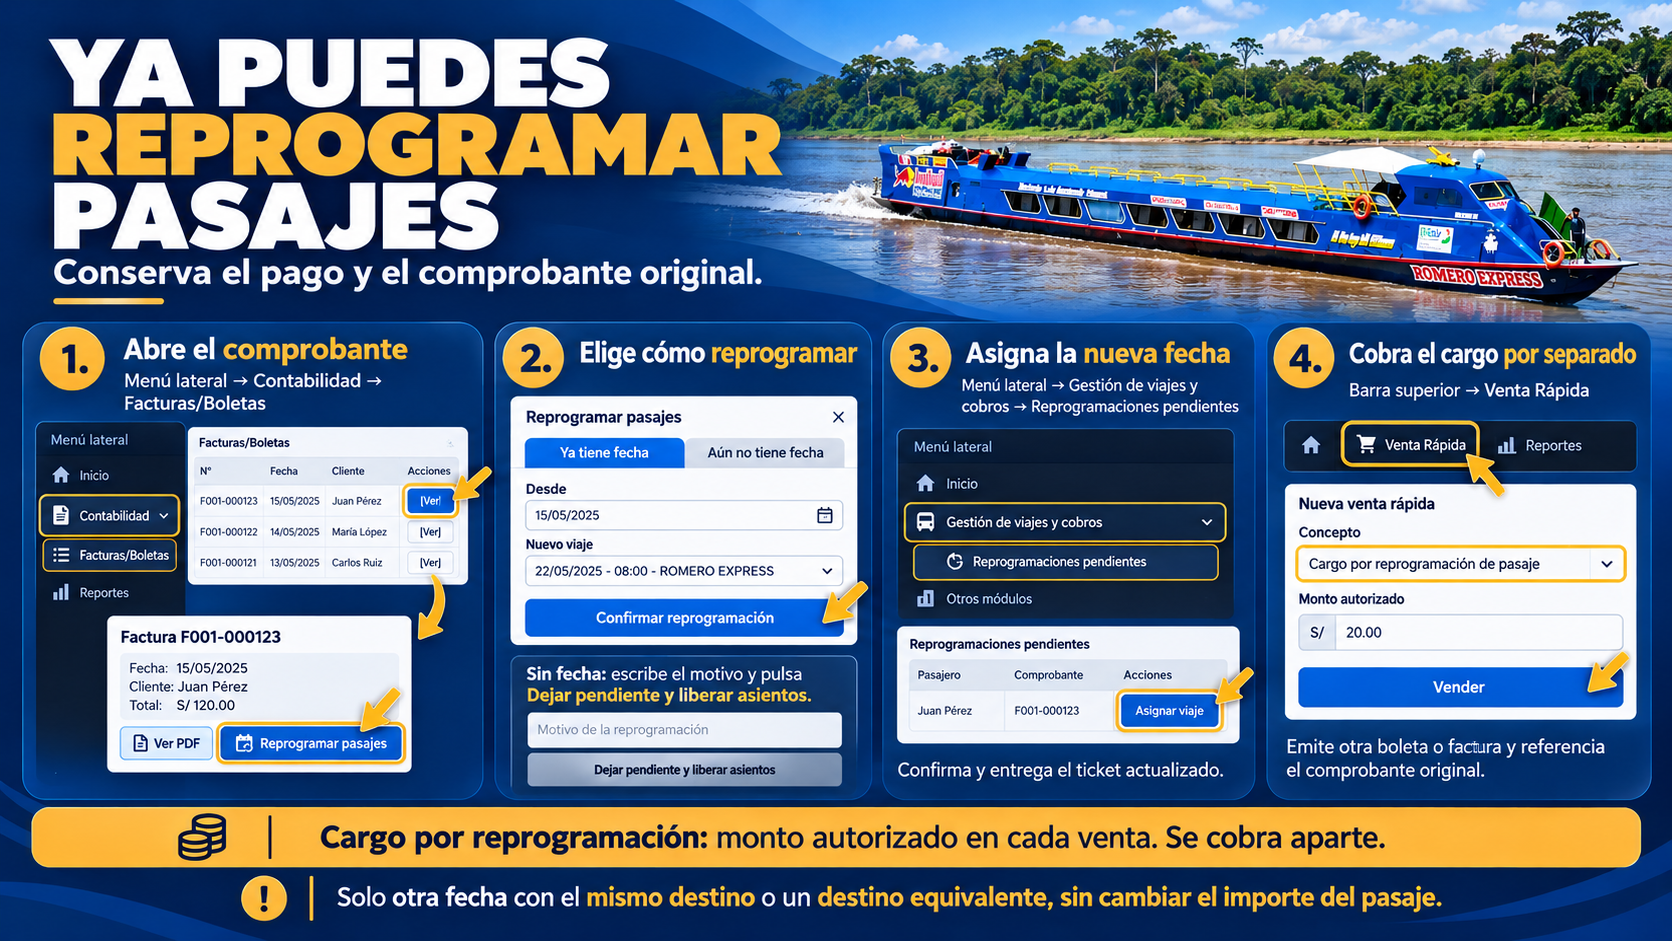
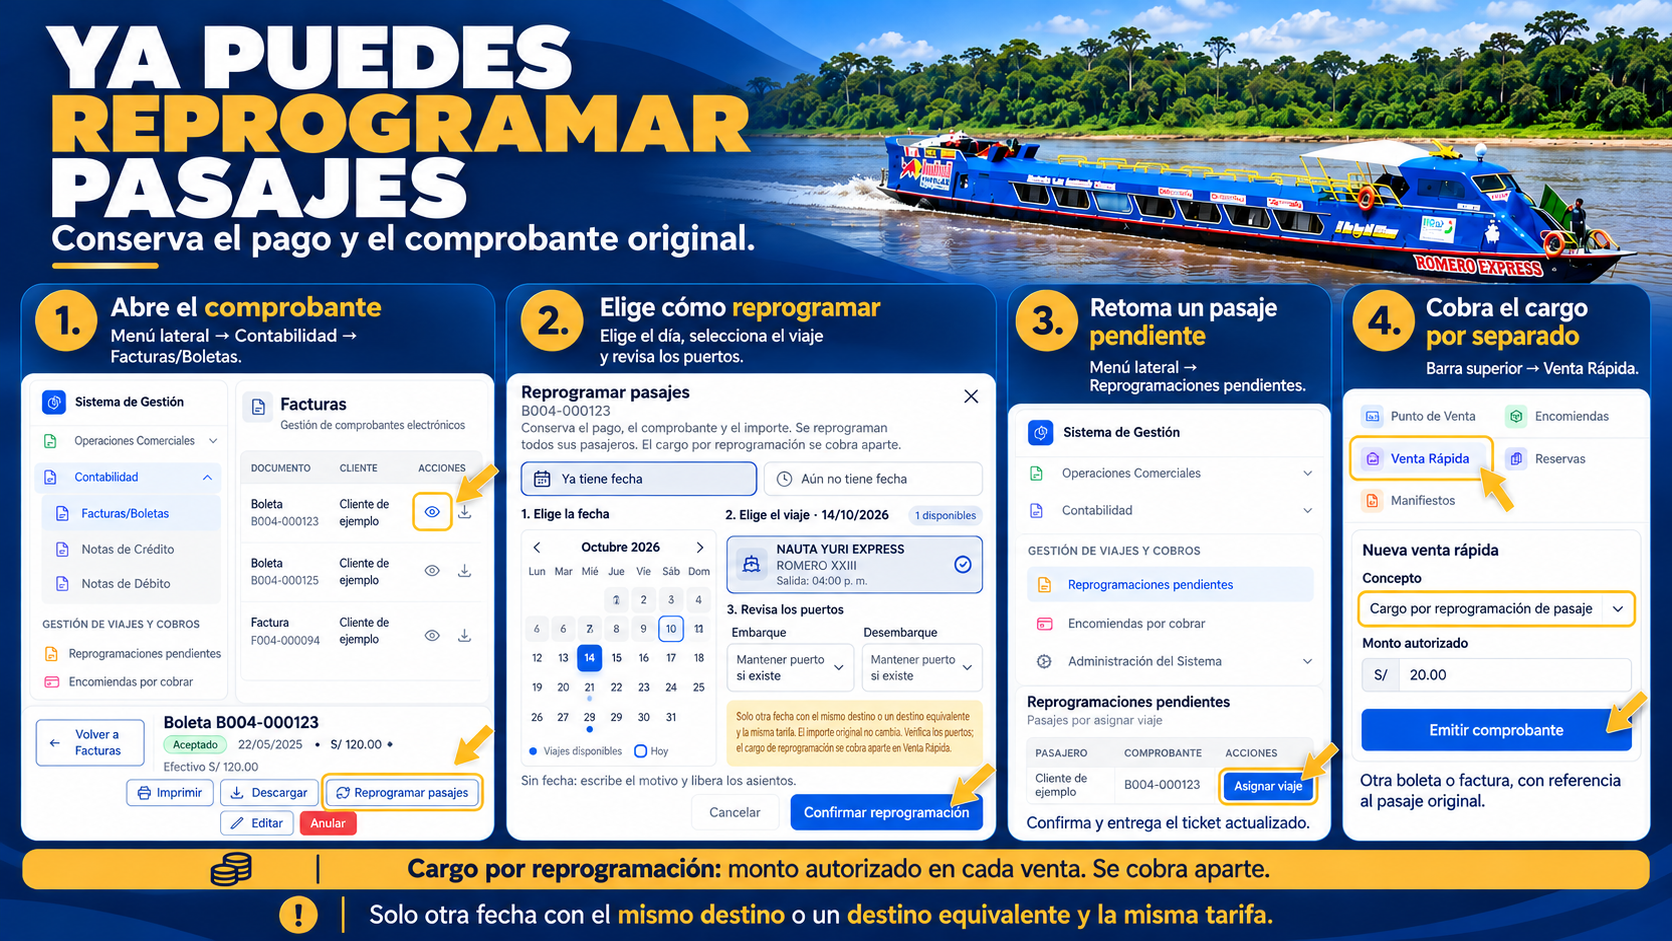
Present illustrated announcements as gallery and reconstruct frontend changelog

diff --git a/src/config/version.ts b/src/config/version.ts
@@ -1,7 +1,7 @@
 // Single source of truth for frontend version and changelog
 // Update this file with each meaningful deploy
 
-export const APP_VERSION = '1.1.0';
+export const APP_VERSION = '1.2.0';
 
 export type ChangelogTag = 'feature' | 'improvement' | 'fix' | 'ui';
 
@@ -14,6 +14,204 @@ export interface ChangelogEntry {
 }
 
 export const CHANGELOG: ChangelogEntry[] = [
+  {
+    "version": "1.2.0",
+    "date": "2026-10-10",
+    "title": "Novedades en una galería de imágenes",
+    "description": "Los anuncios con imagen ocupan casi toda la pantalla y se recorren con flechas. La descripción es opcional; los anuncios de texto y video siguen disponibles.",
+    "tags": [
+      "feature",
+      "ui"
+    ]
+  },
+  {
+    "version": "1.2.0",
+    "date": "2026-10-10",
+    "title": "Reprogramación de pasajes desde la web",
+    "description": "Desde el detalle del comprobante puedes cambiar la fecha del viaje conservando el pago y el importe. El calendario marca fechas con salidas; las tarjetas permiten elegir viaje y revisar los puertos.",
+    "tags": [
+      "feature",
+      "ui"
+    ]
+  },
+  {
+    "version": "1.2.0",
+    "date": "2026-10-10",
+    "title": "Pasajes pendientes de nueva fecha",
+    "description": "Puedes liberar los asientos y retirar pasajeros del manifiesto sin devolver el pago. El acceso Reprogramaciones pendientes permite asignar un viaje cuando confirmen su fecha.",
+    "tags": [
+      "feature"
+    ]
+  },
+  {
+    "version": "1.2.0",
+    "date": "2026-10-10",
+    "title": "Cargo por reprogramación en Venta Rápida",
+    "description": "El cargo se registra con otro comprobante, monto autorizado en cada venta y referencia al pasaje original. El servicio exonerado se mantiene fuera de pasajeros y encomiendas.",
+    "tags": [
+      "feature"
+    ]
+  },
+  {
+    "version": "1.2.0",
+    "date": "2026-09-27",
+    "title": "Reportes por embarcación y período",
+    "description": "Consulta viajes operados, pasajeros, ventas, notas de crédito, recaudación y pendientes por embarcación. Los detalles permiten revisar ocupación, rutas y vendedores.",
+    "tags": [
+      "feature",
+      "improvement"
+    ]
+  },
+  {
+    "version": "1.2.0",
+    "date": "2026-09-26",
+    "title": "Consultas de reportes más eficientes",
+    "description": "Se optimizaron las consultas de reportes por viaje y embarcación, con más detalle para analizar las operaciones y sus ventas.",
+    "tags": [
+      "improvement"
+    ]
+  },
+  {
+    "version": "1.2.0",
+    "date": "2026-09-23",
+    "title": "Sesiones entre aplicaciones",
+    "description": "Se mejoró el manejo de sesiones al usar distintas aplicaciones del sistema.",
+    "tags": [
+      "improvement"
+    ]
+  },
+  {
+    "version": "1.2.0",
+    "date": "2026-09-22",
+    "title": "Asistencia para identificar pagos Yape",
+    "description": "La búsqueda asistida permite localizar pagos por fecha y hora, con mejoras de avisos y actualización en tiempo real.",
+    "tags": [
+      "feature",
+      "improvement"
+    ]
+  },
+  {
+    "version": "1.2.0",
+    "date": "2026-09-19",
+    "title": "Registro de pagos en encomiendas por cobrar",
+    "description": "Se mejoró el formulario de confirmación de pagos y su integración con la búsqueda asistida.",
+    "tags": [
+      "improvement"
+    ]
+  },
+  {
+    "version": "1.2.0",
+    "date": "2026-09-08",
+    "title": "Reservas con notas especiales",
+    "description": "Puedes registrar notas para la reserva y revisarlas al consultar sus detalles y confirmar la venta. La lista de reservas tiene una presentación más clara.",
+    "tags": [
+      "feature",
+      "ui"
+    ]
+  },
+  {
+    "version": "1.2.0",
+    "date": "2026-08-19",
+    "title": "Descripción ampliada en Venta Rápida",
+    "description": "El detalle adicional del servicio permite escribir varias líneas para documentar mejor la venta.",
+    "tags": [
+      "improvement"
+    ]
+  },
+  {
+    "version": "1.2.0",
+    "date": "2026-08-02",
+    "title": "País del pasajero en Punto de Venta",
+    "description": "Se agregó un selector de país en el formulario de pasajeros.",
+    "tags": [
+      "feature"
+    ]
+  },
+  {
+    "version": "1.2.0",
+    "date": "2026-07-17",
+    "title": "Edición de medios de pago",
+    "description": "Desde el detalle del comprobante y la vista previa del ticket puedes revisar y editar los medios de pago. Se mejoró el formato de importes y la actualización del resumen.",
+    "tags": [
+      "feature",
+      "fix"
+    ]
+  },
+  {
+    "version": "1.2.0",
+    "date": "2026-07-16",
+    "title": "Cierre por inactividad ajustado",
+    "description": "Se amplió el límite de inactividad antes del cierre automático de sesión.",
+    "tags": [
+      "improvement"
+    ]
+  },
+  {
+    "version": "1.2.0",
+    "date": "2026-07-12",
+    "title": "Validación de carné de extranjería",
+    "description": "Se corrigió la validación del documento al agregar representantes.",
+    "tags": [
+      "fix"
+    ]
+  },
+  {
+    "version": "1.2.0",
+    "date": "2026-07-06",
+    "title": "Búsqueda de clientes y destinatarios",
+    "description": "Se integró la búsqueda con autocompletado para seleccionar clientes y destinatarios con mayor facilidad.",
+    "tags": [
+      "improvement"
+    ]
+  },
+  {
+    "version": "1.2.0",
+    "date": "2026-06-15",
+    "title": "Inicio de sesión adaptable",
+    "description": "La pantalla de ingreso se adapta mejor a distintos tamaños y al cambio de tema; se incorporó el cierre automático por inactividad.",
+    "tags": [
+      "ui",
+      "improvement"
+    ]
+  },
+  {
+    "version": "1.2.0",
+    "date": "2026-06-11",
+    "title": "Más contexto en gráficos de ventas",
+    "description": "Los gráficos muestran totales de ventas, rutas y vendedores para facilitar la lectura de resultados.",
+    "tags": [
+      "improvement"
+    ]
+  },
+  {
+    "version": "1.2.0",
+    "date": "2026-06-10",
+    "title": "Vista previa de cambio de embarcación",
+    "description": "Al cambiar la embarcación de un viaje puedes revisar previamente la reubicación de pasajeros. También se mejoró la vista de calendario de programación.",
+    "tags": [
+      "feature",
+      "ui"
+    ]
+  },
+  {
+    "version": "1.2.0",
+    "date": "2026-06-09",
+    "title": "Búsqueda en el menú lateral",
+    "description": "El menú incorpora una búsqueda para encontrar secciones y se mejoró la selección de clientes.",
+    "tags": [
+      "improvement"
+    ]
+  },
+  {
+    "version": "1.2.0",
+    "date": "2026-05-28",
+    "title": "Tema oscuro y estados de carga",
+    "description": "Se amplió el soporte del tema oscuro y se mejoró la presentación de errores, carga de tablas y notificaciones.",
+    "tags": [
+      "ui",
+      "improvement"
+    ]
+  },
   {
     version: '1.1.0',
     date: '2026-05-18',

diff --git a/src/features/updates/pages/UpdatesAdminPage.tsx b/src/features/updates/pages/UpdatesAdminPage.tsx
@@ -49,7 +49,7 @@ const FormModal: React.FC<FormModalProps> = ({ isOpen, onClose, editing }) => {
       ? {
           version: editing.version,
           title: editing.title,
-          description: editing.description,
+          description: editing.description || '',
           video_url: editing.video_url ?? '',
           image_url: editing.image_url ?? '',
           learn_more_url: editing.learn_more_url ?? '',
@@ -68,7 +68,7 @@ const FormModal: React.FC<FormModalProps> = ({ isOpen, onClose, editing }) => {
         ? {
             version: editing.version,
             title: editing.title,
-            description: editing.description,
+            description: editing.description || '',
             video_url: editing.video_url ?? '',
             image_url: editing.image_url ?? '',
             learn_more_url: editing.learn_more_url ?? '',
@@ -108,8 +108,8 @@ const FormModal: React.FC<FormModalProps> = ({ isOpen, onClose, editing }) => {
 
   const handleSubmit = (e: React.FormEvent) => {
     e.preventDefault();
-    if (!form.version.trim() || !form.title.trim() || !form.description.trim()) {
-      toast.warning('Versión, título y descripción son obligatorios');
+    if (!form.version.trim() || !form.title.trim()) {
+      toast.warning('Versión y título son obligatorios');
       return;
     }
     const payload: SystemUpdatePayload = {
@@ -225,19 +225,19 @@ const FormModal: React.FC<FormModalProps> = ({ isOpen, onClose, editing }) => {
 
                   <div>
                     <label className="block text-xs font-semibold text-dm-text-muted mb-1 uppercase tracking-wider">
-                      Descripción *
+                      Descripción (opcional)
                     </label>
                     <textarea
                       value={form.description}
                       onChange={(e) => set('description', e.target.value)}
-                      rows={7}
+                      rows={4}
                       placeholder={'Qué cambió y para qué sirve.\n1. Abre la sección...\n2. Pulsa el botón...\n3. Confirma y revisa el resultado.'}
                       className="w-full px-3 py-2 text-sm border border-dm-border-primary rounded-lg focus:outline-none focus:ring-2 focus:ring-primary/40 resize-none"
                     />
                   </div>
 
                   <label className="block text-sm text-dm-text-secondary">Imagen (opcional)<input value={form.image_url || ''} onChange={e => set('image_url', e.target.value)} placeholder="/images/updates/reprogramacion-pasajes.png" className="w-full px-3 py-2 border border-dm-border-primary rounded-lg" /></label>
-                  {form.description.trim() && <div className="rounded-xl border border-dm-border-primary p-4"><p className="text-xs font-semibold text-dm-text-muted mb-3">ASÍ LO VERÁ EL USUARIO</p><h3 className="font-bold text-dm-text-primary mb-3">{form.title || 'Título de la novedad'}</h3>{safeUpdateLink(form.image_url) && <img src={safeUpdateLink(form.image_url)} alt="Vista previa de la novedad" className="rounded-xl w-full mb-3" />}<UpdateGuide text={form.description} /></div>}
+                  {(form.description.trim() || safeUpdateLink(form.image_url)) && <div className="rounded-xl border border-dm-border-primary p-4"><p className="text-xs font-semibold text-dm-text-muted mb-3">ASÍ LO VERÁ EL USUARIO</p><h3 className="font-bold text-dm-text-primary mb-3">{form.title || 'Título de la novedad'}</h3>{safeUpdateLink(form.image_url) && <img src={safeUpdateLink(form.image_url)} alt="Vista previa de la novedad" className="rounded-xl w-full mb-3" />}{!safeUpdateLink(form.image_url) && <UpdateGuide text={form.description} />}</div>}
 
                   <div>
                     <label className="block text-xs font-semibold text-dm-text-muted mb-1 uppercase tracking-wider">

diff --git a/src/features/updates/components/SystemUpdatesModal.tsx b/src/features/updates/components/SystemUpdatesModal.tsx
@@ -110,6 +110,29 @@ const SystemUpdatesModal: React.FC<Props> = ({ isOpen, onClose, updates }) => {
     );
   };
 
+  const announcementImage = safeUpdateLink(current.image_url);
+  if (announcementImage) return <Dialog open={isOpen} onClose={handleClose} className="relative z-50">
+    <div className="fixed inset-0 bg-black/70 backdrop-blur-sm" aria-hidden="true" />
+    <div className="fixed inset-0 flex items-center justify-center p-2 sm:p-4">
+      <Dialog.Panel onKeyDown={event => { if (event.key === 'ArrowRight') goNext(); if (event.key === 'ArrowLeft') goPrev(); }} className="w-full max-w-[1500px] h-[94dvh] rounded-2xl border border-dm-border-primary bg-dm-bg-primary shadow-2xl flex flex-col overflow-hidden">
+        <div className="flex items-center justify-between gap-3 px-4 py-3 shrink-0">
+          <div className="min-w-0"><Dialog.Title className="font-semibold text-dm-text-primary truncate">{current.title}</Dialog.Title><p className="text-xs text-dm-text-muted">{current.version} · {currentIndex + 1} de {total}</p></div>
+          <button onClick={handleClose} aria-label="Cerrar" className="p-2 rounded-full hover:bg-dm-bg-hover"><XMarkIcon className="w-5 h-5 text-dm-text-secondary" /></button>
+        </div>
+        <div className="flex-1 min-h-0 bg-black/5 dark:bg-black/30 flex items-center justify-center px-1 sm:px-3">
+          <img src={announcementImage} alt={current.title} className="w-full h-full object-contain" />
+        </div>
+        <div className="flex flex-wrap items-center justify-between gap-3 px-4 py-3 shrink-0 border-t border-dm-border-primary">
+          <div className="flex items-center gap-2"><button onClick={goPrev} disabled={currentIndex === 0} aria-label="Anterior" className="p-2 rounded-lg border border-dm-border-primary disabled:opacity-30"><ChevronLeftIcon className="w-5 h-5" /></button>
+            <div className="flex flex-wrap gap-2">{updates.map((item, index) => <button key={item.id} aria-label={`Ir a la novedad ${index + 1}`} aria-current={index === currentIndex ? 'true' : undefined} onClick={() => setCurrentIndex(index)} className={`w-2.5 h-2.5 rounded-full ${index === currentIndex ? 'bg-primary' : 'bg-slate-300 dark:bg-slate-600'}`} />)}</div>
+            <button onClick={goNext} disabled={currentIndex === total - 1} aria-label="Siguiente" className="p-2 rounded-lg border border-dm-border-primary disabled:opacity-30"><ChevronRightIcon className="w-5 h-5" /></button>
+          </div>
+          <div className="flex items-center gap-3">{learnMore && <a href={learnMore} target={learnMore.startsWith('/') ? undefined : '_blank'} rel="noopener noreferrer" onClick={handleClose} className="text-sm font-semibold text-primary">{learnMore.startsWith('/') ? 'Abrir herramienta' : 'Más detalles'}</a>}<button onClick={currentIndex < total - 1 ? goNext : handleClose} className="rounded-lg bg-primary text-white px-4 py-2 text-sm font-semibold">{currentIndex < total - 1 ? 'Continuar' : 'Entendido'}</button></div>
+        </div>
+      </Dialog.Panel>
+    </div>
+  </Dialog>;
+
   return (
     <Transition show={isOpen} as={React.Fragment}>
       <Dialog as="div" className="relative z-50" onClose={handleClose}>

diff --git a/src/features/updates/pages/UpdatesAdminPage.test.tsx b/src/features/updates/pages/UpdatesAdminPage.test.tsx
@@ -1,0 +1,18 @@
+import { afterEach, describe, expect, it, vi } from 'vitest';
+import { cleanup, fireEvent, render, screen, waitFor } from '@testing-library/react';
+import { QueryClient, QueryClientProvider } from '@tanstack/react-query';
+import UpdatesAdminPage from './UpdatesAdminPage';
+import { updatesService } from '../services/updates.service';
+vi.mock('../services/updates.service', () => ({ updatesService: { getAll: vi.fn(async () => []), create: vi.fn(async () => ({})), update: vi.fn(), deleteById: vi.fn() } }));
+vi.mock('@/utils/sileo-toast', () => ({ toast: { success: vi.fn(), error: vi.fn(), warning: vi.fn() } }));
+afterEach(cleanup);
+describe('Novedad con imagen y descripción opcional', () => {
+  it('permite guardar título e imagen sin texto adicional', async () => {
+    render(<QueryClientProvider client={new QueryClient({ defaultOptions: { queries: { retry: false } } })}><UpdatesAdminPage /></QueryClientProvider>);
+    fireEvent.click(screen.getByRole('button', { name: 'Nueva Novedad' }));
+    fireEvent.change(screen.getByPlaceholderText('Nuevo módulo de cotizaciones'), { target: { value: 'Reprogramación disponible' } });
+    fireEvent.change(screen.getByPlaceholderText('/images/updates/reprogramacion-pasajes.png'), { target: { value: '/images/updates/reprogramacion-pasajes.png' } });
+    fireEvent.click(screen.getByRole('button', { name: 'Crear novedad' }));
+    await waitFor(() => expect(updatesService.create).toHaveBeenCalledWith(expect.objectContaining({ title: 'Reprogramación disponible', description: '', image_url: '/images/updates/reprogramacion-pasajes.png' })));
+  });
+});

diff --git a/src/features/updates/components/SystemUpdatesModal.test.tsx b/src/features/updates/components/SystemUpdatesModal.test.tsx
@@ -29,4 +29,22 @@ describe('Novedades sin video', () => {
     expect(safeUpdateLink('//external.test')).toBeUndefined();
     expect(safeUpdateLink('/\\external.test')).toBeUndefined();
   });
+  it('presenta imágenes como galería amplia sin descripción ni columna lateral', () => {
+    render(<SystemUpdatesModal isOpen onClose={() => {}} updates={[{ ...announcement, description: null, image_url: '/images/updates/reprogramacion-pasajes.png' }]} />);
+    expect(screen.getByRole('img', { name: announcement.title })).toHaveClass('object-contain');
+    expect(screen.queryByText('Conoce qué cambió y cómo usarlo, paso a paso.')).not.toBeInTheDocument();
+    expect(screen.getByRole('button', { name: 'Entendido' })).toBeInTheDocument();
+  });
+  it('recorre imágenes con las flechas sin repetir el texto incluido en la imagen', () => {
+    render(<SystemUpdatesModal isOpen onClose={() => {}} updates={[
+      { ...announcement, image_url: '/images/one.png' },
+      { ...announcement, id: 2, title: 'Segundo anuncio', image_url: '/images/two.png' },
+    ]} />);
+    expect(screen.queryByText('Abre la boleta.')).not.toBeInTheDocument();
+    fireEvent.click(screen.getByRole('button', { name: 'Siguiente' }));
+    expect(screen.getByRole('img', { name: 'Segundo anuncio' })).toHaveAttribute('src', '/images/two.png');
+    fireEvent.click(screen.getByRole('button', { name: 'Anterior' }));
+    expect(screen.getByRole('img', { name: announcement.title })).toHaveAttribute('src', '/images/one.png');
+  });
+
 });

diff --git a/src/features/updates/services/updates.service.ts b/src/features/updates/services/updates.service.ts
@@ -4,7 +4,7 @@ export interface SystemUpdate {
   id: number;
   version: string;
   title: string;
-  description: string;
+  description: string | null;
   video_url: string | null;
   image_url?: string | null;
   learn_more_url: string | null;

diff --git a/docs/HISTORIAL_RECONSTRUIDO_2026-10-10.md b/docs/HISTORIAL_RECONSTRUIDO_2026-10-10.md
@@ -1,0 +1,27 @@
+# Fuentes del historial reconstruido
+
+El grupo 1.2.0 reúne cambios presentes en esta rama desde la última entrada documentada (mayo de 2026), conservando las fechas de los commits. Las fechas no prueban cuándo se desplegaron en producción. Se omiten merges, mantenimiento interno y cambios móviles no incluidos.
+
+- 2026-10-10 — Novedades en una galería de imágenes: Este cambio.
+- 2026-10-10 — Reprogramación de pasajes desde la web: c595fe1, 7556562, 6255c17, 3e2df7a, 15dce74, d472dda.
+- 2026-10-10 — Pasajes pendientes de nueva fecha: c595fe1, d5036f1.
+- 2026-10-10 — Cargo por reprogramación en Venta Rápida: d5036f1; API 9f3122f.
+- 2026-09-27 — Reportes por embarcación y período: df858ba, 3e57773, 8db5e2c.
+- 2026-09-26 — Consultas de reportes más eficientes: 9a5a17d, acaea39.
+- 2026-09-23 — Sesiones entre aplicaciones: e8c78d1.
+- 2026-09-22 — Asistencia para identificar pagos Yape: 8cef4a5, ede4238, 9181adb, 2ffd6ef, fc84f6f.
+- 2026-09-19 — Registro de pagos en encomiendas por cobrar: 15cd3d2.
+- 2026-09-08 — Reservas con notas especiales: bf621ed, 73ae8c5.
+- 2026-08-19 — Descripción ampliada en Venta Rápida: aa02492.
+- 2026-08-02 — País del pasajero en Punto de Venta: af31e09.
+- 2026-07-17 — Edición de medios de pago: a3851e2, 7f2850b.
+- 2026-07-16 — Cierre por inactividad ajustado: fd28535.
+- 2026-07-12 — Validación de carné de extranjería: 5abfda7.
+- 2026-07-06 — Búsqueda de clientes y destinatarios: b43a1ec.
+- 2026-06-15 — Inicio de sesión adaptable: b7203be.
+- 2026-06-11 — Más contexto en gráficos de ventas: cd5b71d, 97446d1.
+- 2026-06-10 — Vista previa de cambio de embarcación: 01616fb, c9e6175, f1c2927.
+- 2026-06-09 — Búsqueda en el menú lateral: 390632e.
+- 2026-05-28 — Tema oscuro y estados de carga: ece12bb, 5389034, 202dc52, 0bc8362.
+
+Activa publica la novedad (según fecha y plataforma). La web abre todas las novedades no vistas; is_mandatory se guarda pero actualmente no modifica la apertura ni impide cerrar. Al cerrar se guarda el máximo ID en localStorage del navegador. Para varias diapositivas, crear varias novedades con la misma versión y una imagen por novedad. Una imagen oculta la descripción en el visor; anuncios sin imagen conservan texto/video. No se activan ni se crean anuncios adicionales automáticamente con este cambio.
